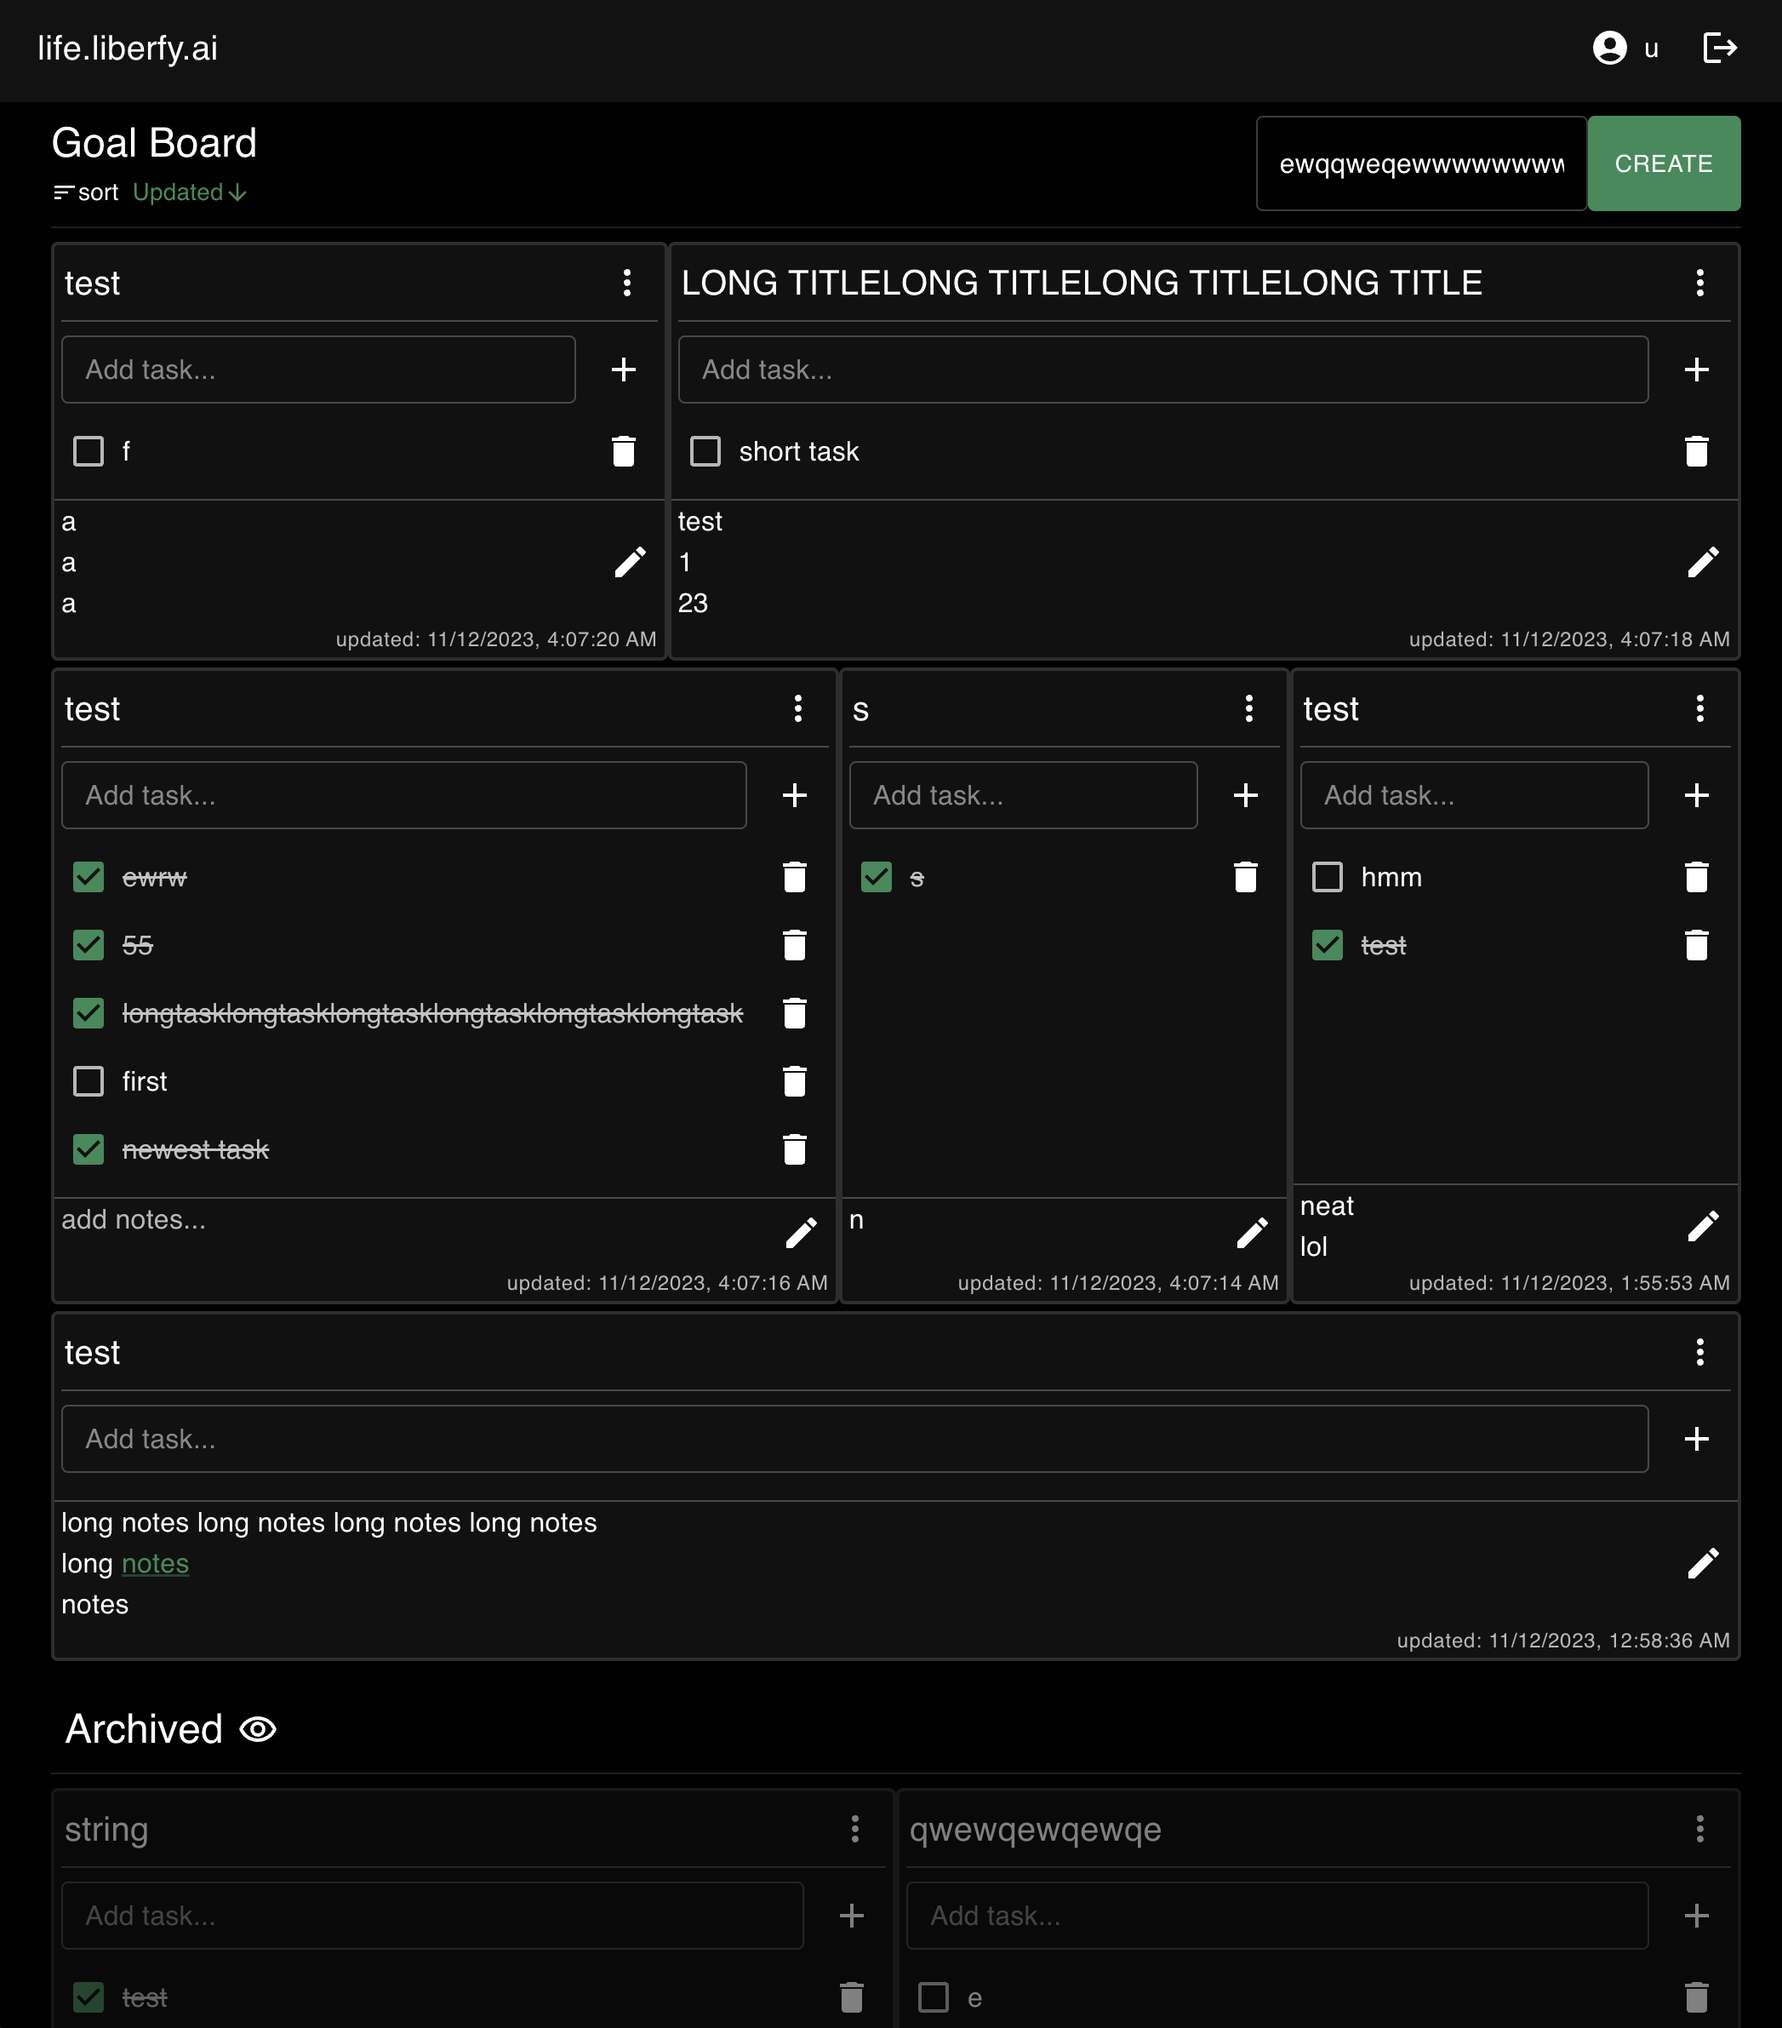
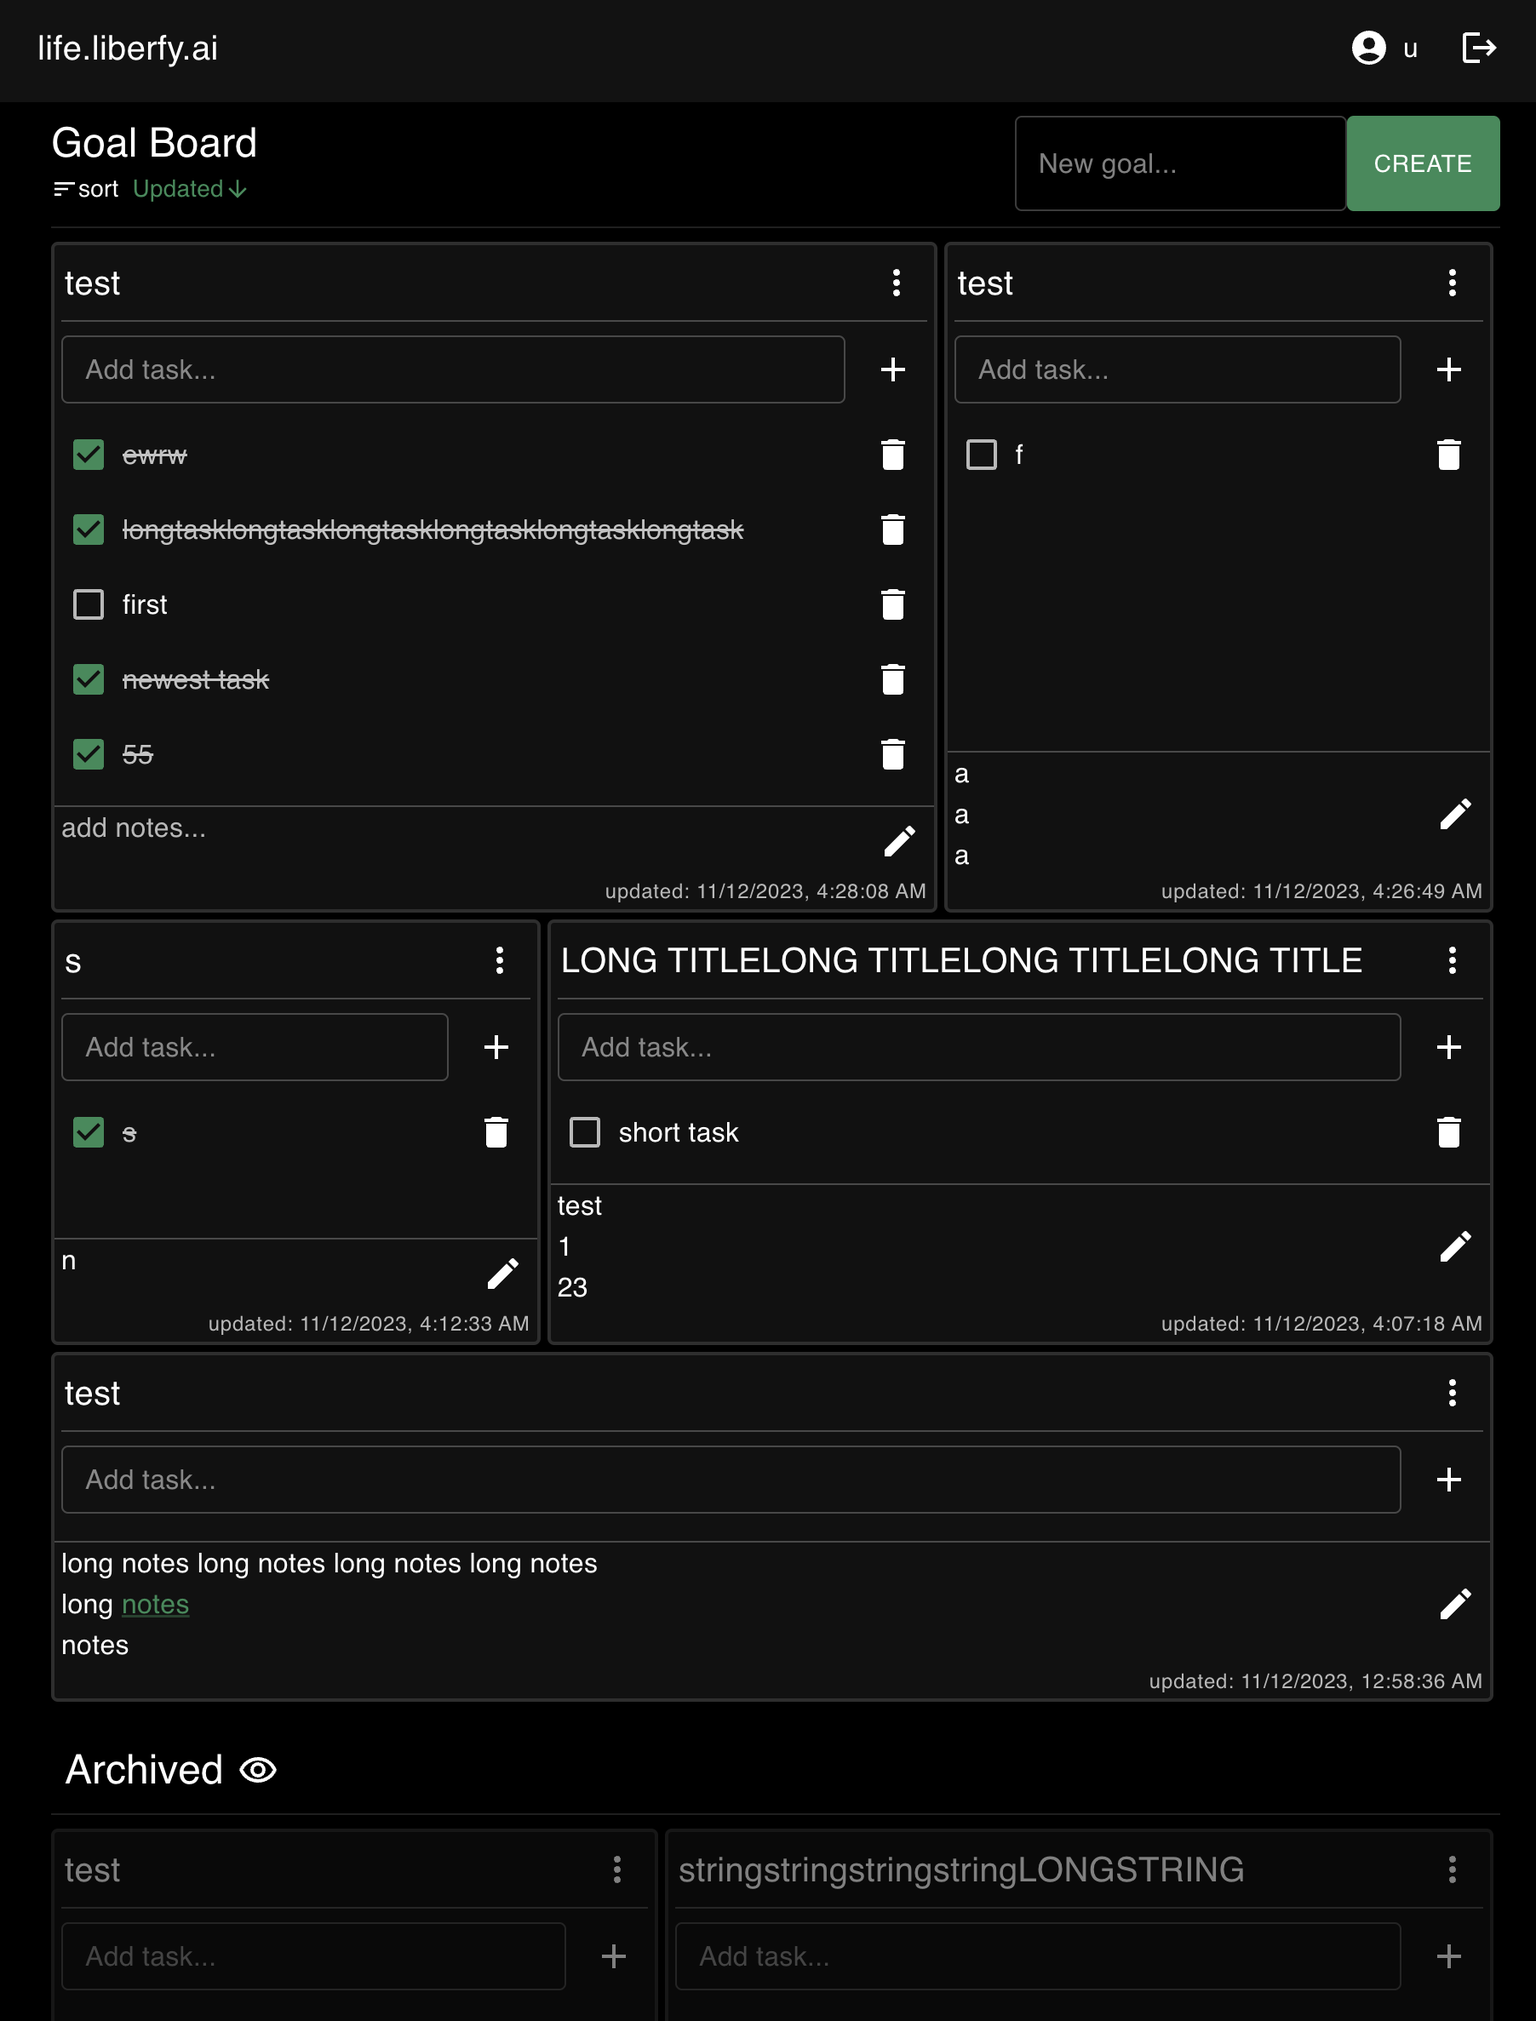
frontend fixes

diff --git a/frontend/src/pages/GoalsPage/GoalBoardElem.tsx b/frontend/src/pages/GoalsPage/GoalBoardElem.tsx
@@ -41,11 +41,11 @@ export const GoalBoardElem: React.FC<GoalBoardElemProps> = ({
           <GoalItem
             key={goal.id}
             goal={goal}
-            toggleTaskCompletion={isArchived ? undefined : toggleTaskCompletion}
-            handleGoalDelete={isArchived ? undefined : handleGoalDelete}
-            handleAddTaskToGoal={isArchived ? undefined : handleAddTaskToGoal}
-            handleGoalUpdate={isArchived ? undefined : handleGoalUpdate}
-            handleDeleteTask={isArchived ? undefined : handleDeleteTask}
+            toggleTaskCompletion={toggleTaskCompletion}
+            handleGoalDelete={handleGoalDelete}
+            handleAddTaskToGoal={handleAddTaskToGoal}
+            handleGoalUpdate={handleGoalUpdate}
+            handleDeleteTask={handleDeleteTask}
           />
         ))}
       </Box>

diff --git a/frontend/src/pages/GoalsPage/GoalItem/GoalTasks.tsx b/frontend/src/pages/GoalsPage/GoalItem/GoalTasks.tsx
@@ -99,6 +99,8 @@ export const GoalTasks: React.FC<GoalTasksProps> = ({
                 sx={{
                   cursor: "pointer",
                   flexGrow: 1,
+                  pt: 0.25,
+                  pb: 0.25,
                   width: "100%",
                   "&:active": {
                     backgroundColor: "#303030",

diff --git a/frontend/src/pages/GoalsPage/GoalItem/GoalTaskItem.tsx b/frontend/src/pages/GoalsPage/GoalItem/GoalTaskItem.tsx
@@ -16,7 +16,8 @@ export const GoalTaskItem: React.FC<{
       onClick={() => onToggle(goalId, task.id, task.completed)}
       sx={{
         cursor: "pointer",
-        mb: 1,
+        width: "100%",
+
         "&:hover": {
           backgroundColor: "#303030",
         },

diff --git a/frontend/src/pages/GoalsPage/GoalBoard.tsx b/frontend/src/pages/GoalsPage/GoalBoard.tsx
@@ -192,6 +192,7 @@ const GoalBoard: React.FC<GoalBoardProps> = ({
           setHideArchived={setHideArchived}
         />
       </Box>
+
       {!hideArchived && (
         <GoalBoardElem
           goals={archivedGoals}

diff --git a/frontend/src/pages/GoalsPage/GoalItem/index.tsx b/frontend/src/pages/GoalsPage/GoalItem/index.tsx
@@ -111,6 +111,7 @@ export const GoalItem: React.FC<GoalItemProps> = ({
 
         p: 0,
         ml: 0,
+        mr: 0.5,
         mb: 0.5,
         width: "fit-content",
       }}
